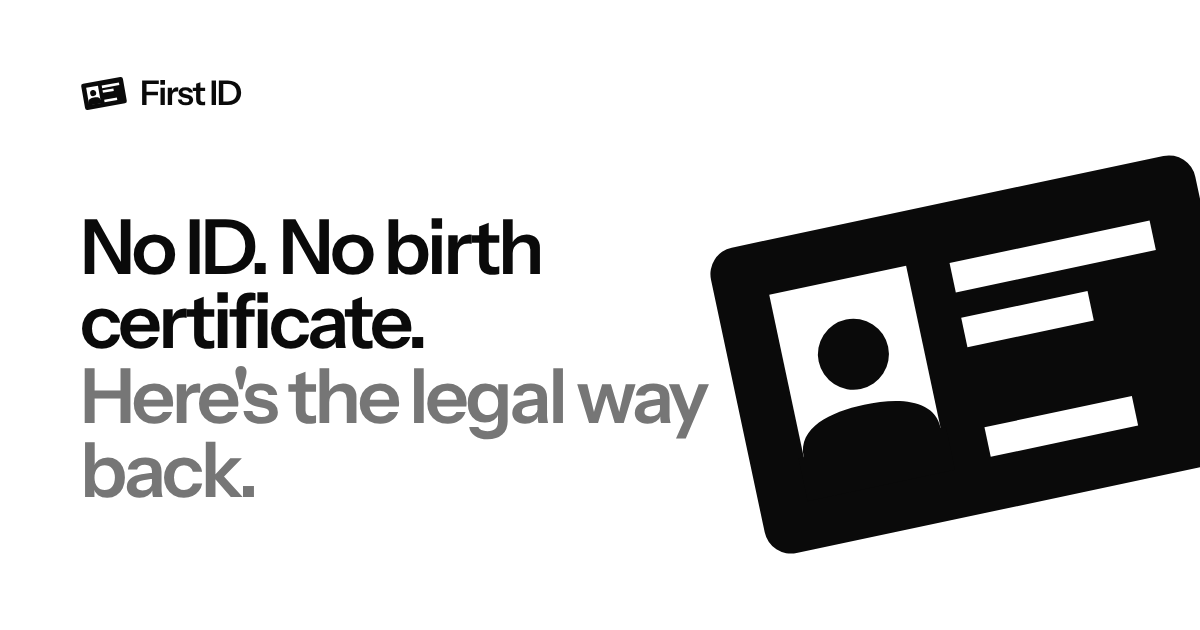
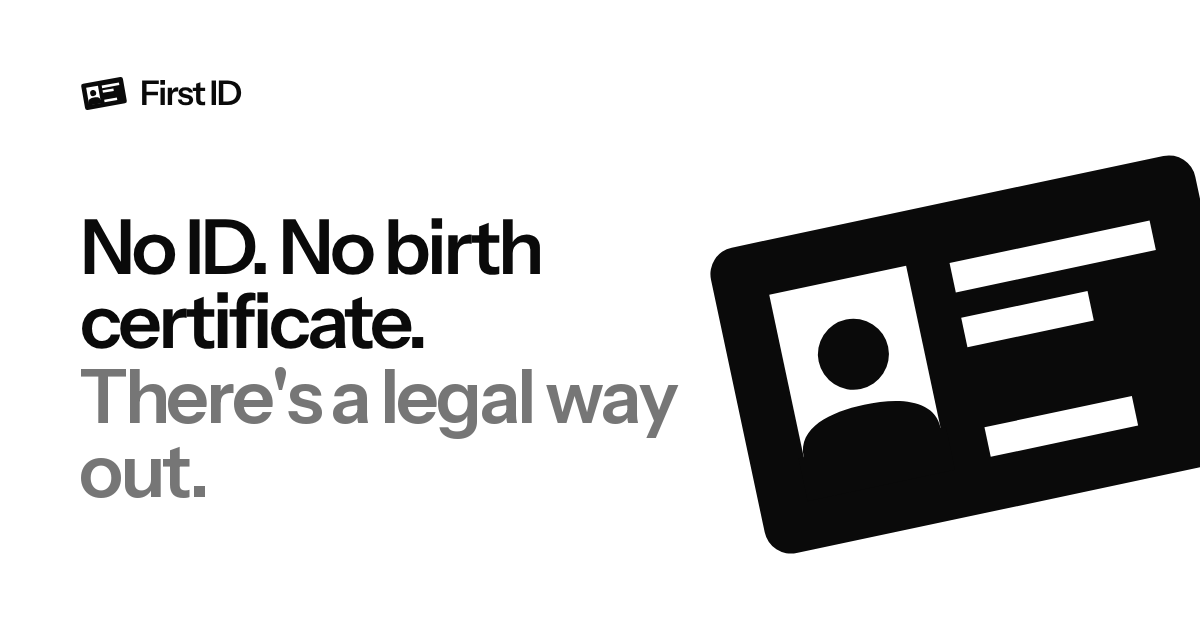
Link preview: the new hero line, "There's a legal way out." (AI-generated by Claude; see AI-USE.md)
Only the grey headline in og.png changed, redrawn in Instrument Sans 600
at the old size, spacing and position. og:image gets ?v=2 so chat apps
fetch the new image instead of their cached one.

Changed region(s): [[0.0617, 0.573, 0.5858, 0.8143]]

diff --git a/index.html b/index.html
@@ -13,7 +13,7 @@
     <link rel="manifest" href="/manifest.webmanifest" />
     <meta property="og:title" content="First ID" />
     <meta property="og:description" content="No ID and no birth certificate? First ID finds the cheapest legal path to a California ID card in LA County and links the source for each step." />
-    <meta property="og:image" content="https://first-id.vercel.app/og.png" />
+    <meta property="og:image" content="https://first-id.vercel.app/og.png?v=2" />
     <meta name="twitter:card" content="summary_large_image" />
   </head>
   <body>

diff --git a/AI-USE.md b/AI-USE.md
@@ -49,4 +49,5 @@ We add a row whenever an AI tool writes or substantially changes something.
 | 2026-10-25 | DMV offices list for DMV steps, sorted by a ZIP the person types (kept in memory only): a snapshot of 26 LA County DMV field offices from the DMV's own field-office data and a ZIP centroid table from Census public files, each record with its source URL and the date checked, plus tests (`data/offices.json`, `data/zip-centroids.json`, `src/offices.ts`, `src/screens/OfficesScreen.tsx`, `StepScreen.tsx`, router, `tests/offices.test.ts`) | Claude | [Michael: what you changed] |
 | 2026-10-25 | Progress tracker on the path screen (tick steps as you go, saved on this phone only) and calendar reminders for waiting steps, built in the browser as .ics files on the day the planner expects each step to finish; only the wait times already in the rules, no other deadlines (`src/progress.ts`, `PathScreen.tsx`, `i18n.ts`, `styles.css`, `tests/progress.test.ts`) | Claude | [Michael: what you changed] |
 | 2026-10-25 | README refresh at Adrian's request: removed the Team ("built by") section and the `contributors` list in `package.json`; the README now covers the text-size control, the DMV offices list, Show the clerk and Read aloud, progress ticks and calendar reminders, the state's sample documents and what is kept on the device; `package.json` says "cheapest" and "source" like the site; the planner paragraph now says why Dijkstra is exact (no negative costs) apart from why more documents never hurt (moves only add documents) (`README.md`, `package.json`). No app code or rule changed | Claude | [Adrian: what you changed] |
+| 2026-10-25 | Link-preview image (`public/og.png`) redrawn for the new hero line "There's a legal way out." (copy pass 1): only the grey headline changed, set in Instrument Sans 600 at the same size, spacing and position as before; `og:image` URL gets `?v=2` so chat apps fetch the new one (`public/og.png`, `index.html`) | Claude | [Adrian: what you changed] |
 | | | | |
